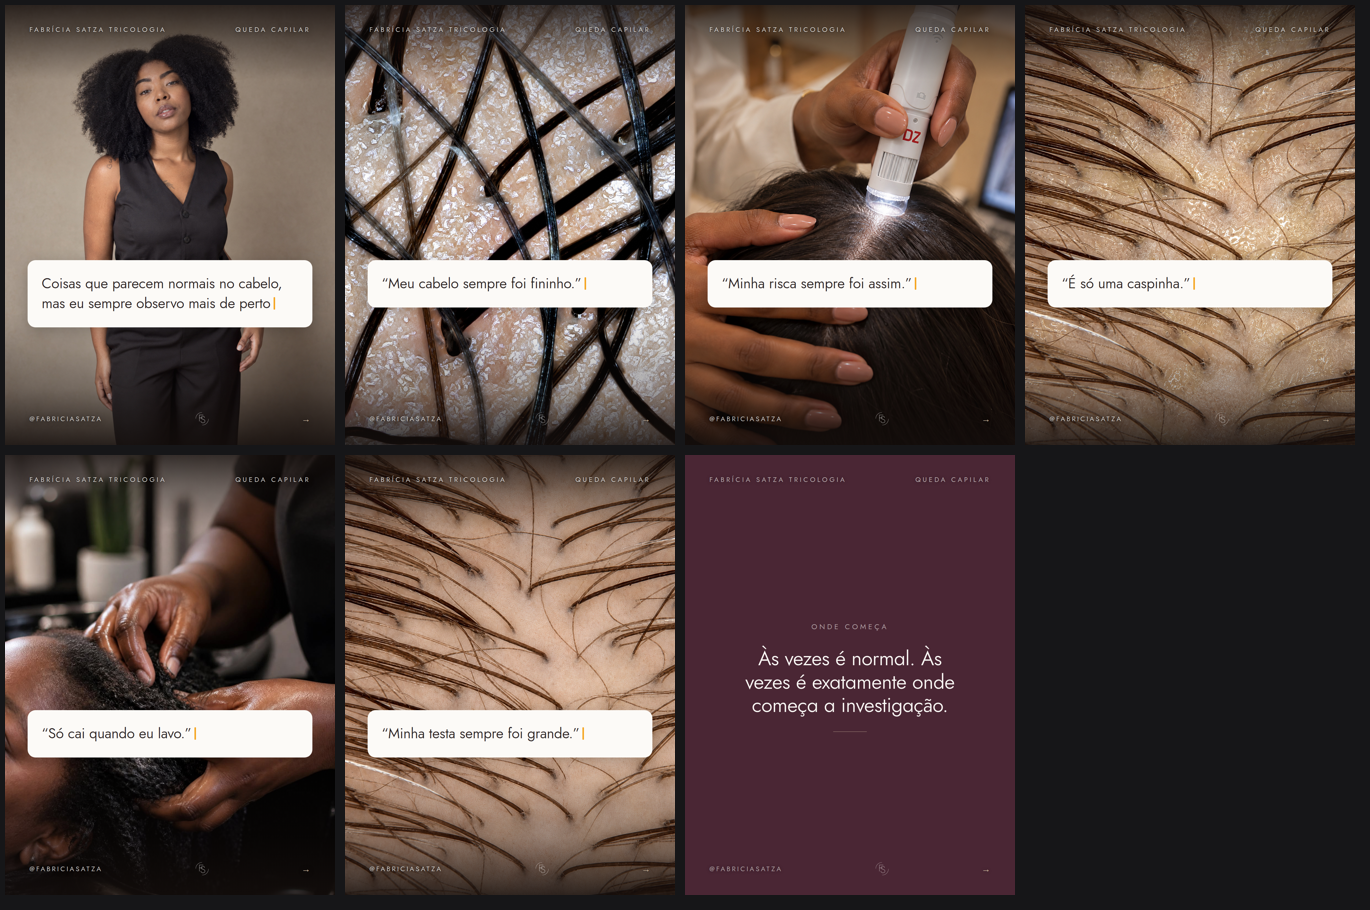
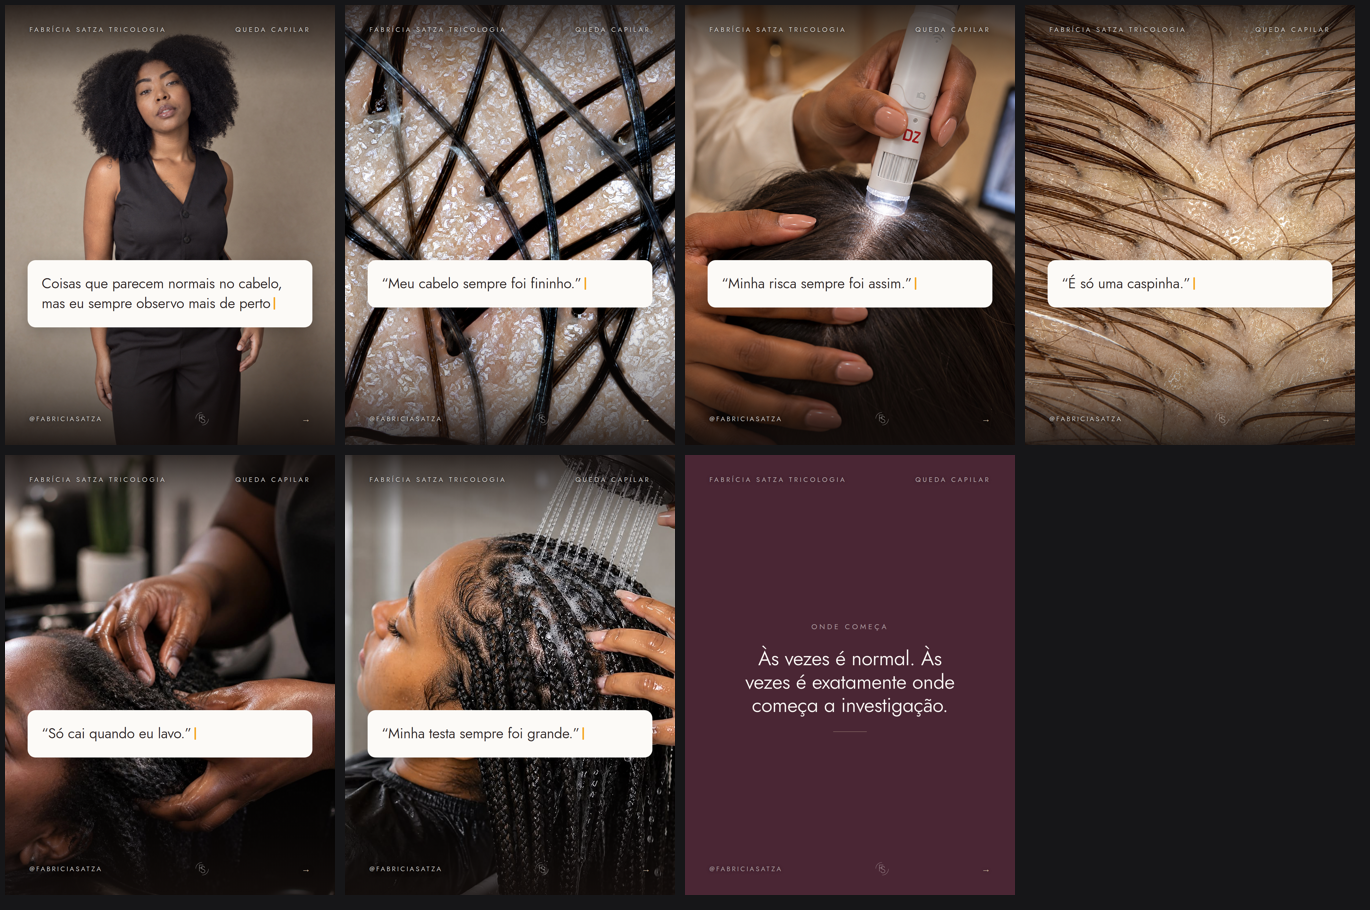
Troca a foto da testa, e numera o banco para ela escolher
Na frase da testa entra o enxague de trancas: a testa e a linha frontal
aparecem inteiras, e as trancas apertadas mostram o mecanismo da tracao — e
a melhor imagem do banco para aquela fala, nao so a que mostra a testa.
Recorte deslocado 30px a esquerda porque a imagem e quadrada e o rosto vem
antes das maos. Cabecalho medido em 5,66:1 sobre o fundo claro do chuveiro.

Ela disse preferir outras imagens mas a referencia ("essa ultima imagem")
nao identifica qual, e a que eu usei na testa JA era a ultima com foto. Em
vez de adivinhar cinco trocas, entram tres folhas de contato numeradas — as
36 fotos dela, as 20 de tricoscopia e as 17 de cabelos, cada uma com numero
e legenda. Uma resposta com numeros resolve tudo de uma vez.

Terceira imagem espelhada encontrada: alem do colete com livro, as duas de
"lendo livro" tambem tem o titulo invertido. Marcado na folha.

Claude-Session: https://claude.ai/code/session_01DL9VyhWUWZtPxmDSzgTccC

Changed region(s): [[0.2453, 0.4923, 0.4905, 0.9846]]

diff --git a/carrossel-parecem-normais.html b/carrossel-parecem-normais.html
@@ -511,7 +511,7 @@ em,i,.destaque{font-style:normal;color:var(--terracota-esc)}
   <div class="rod"><span>@fabriciasatza</span><span class="fs mono"></span><span class="segue">&#8594;</span></div>
 </section>
 
-<!-- 06 ▸ NOTA — a fala da paciente, entre aspas. Foto: unidades espacadas e fios finos. -->
+<!-- 06 ▸ NOTA — a fala da paciente, entre aspas. Foto: o enxague de tranças — a testa e a linha frontal aparecem, e as tranças apertadas mostram o mecanismo da tração. -->
 <section class="slide sobre-foto nota-post">
   <img class="foto" src="fotos-normais/f5.jpg" alt="">
   <div class="veu"></div>
